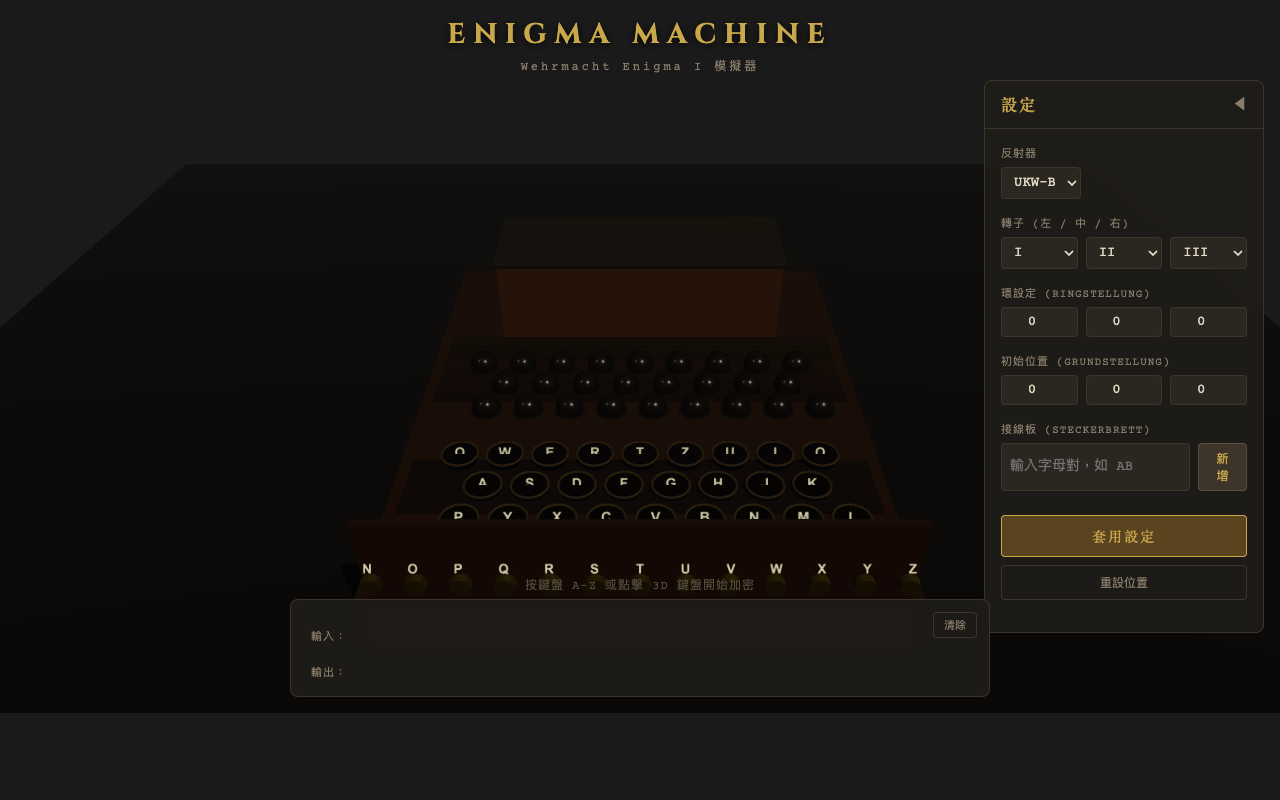
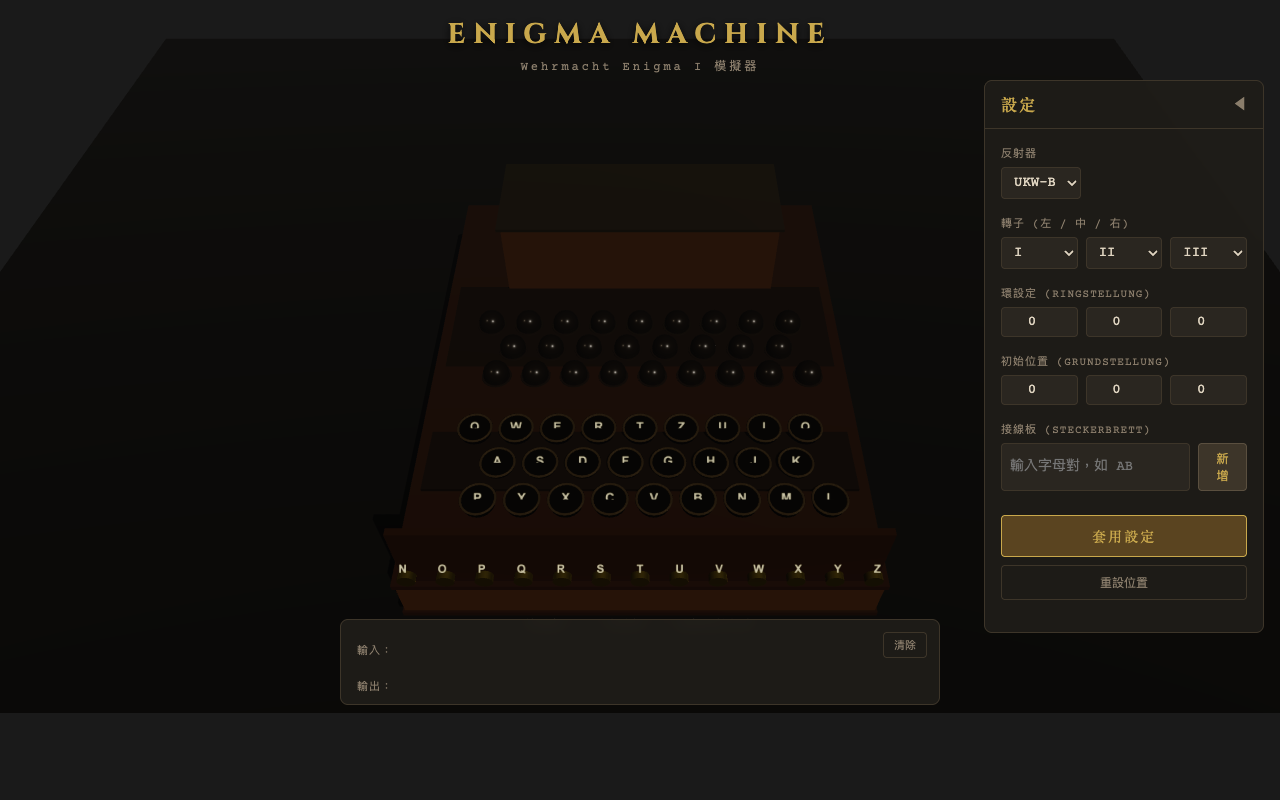
fix: 調整相機角度與 UI 面板大小，避免鍵盤被遮擋
將相機位置從 (0,12,16) 調整為 (0,16,14) 以更俯視角度
顯示鍵盤區域，同時縮小底部顯示面板尺寸與間距。

diff --git a/src/js/three/scene.js b/src/js/three/scene.js
@@ -23,8 +23,8 @@ export function createScene(container) {
     const width = window.innerWidth;
     const height = window.innerHeight;
     const camera = new THREE.PerspectiveCamera(45, width / height, 0.1, 100);
-    camera.position.set(0, 12, 16);
-    camera.lookAt(0, 1, 0);
+    camera.position.set(0, 16, 14);
+    camera.lookAt(0, 0, 0);
 
     // 渲染器
     const renderer = new THREE.WebGLRenderer({
@@ -82,11 +82,11 @@ export function createScene(container) {
 
     // 軌道控制器
     const controls = new OrbitControls(camera, renderer.domElement);
-    controls.target.set(0, 1, 0);
-    controls.maxPolarAngle = Math.PI / 2.1;
+    controls.target.set(0, 0, 0);
+    controls.maxPolarAngle = Math.PI / 2.5;
     controls.minPolarAngle = Math.PI / 8;
-    controls.minDistance = 8;
-    controls.maxDistance = 25;
+    controls.minDistance = 10;
+    controls.maxDistance = 30;
     controls.enablePan = false;
     controls.enableDamping = true;
     controls.dampingFactor = 0.05;

diff --git a/src/css/style.css b/src/css/style.css
@@ -253,14 +253,14 @@ body {
 /* ===== 輸入/輸出顯示 ===== */
 #display {
     position: absolute;
-    bottom: 16px;
+    bottom: 8px;
     left: 50%;
     transform: translateX(-50%);
-    width: min(90%, 700px);
+    width: min(90%, 600px);
     background: rgba(30, 28, 24, 0.92);
     border: 1px solid #3d3529;
     border-radius: 8px;
-    padding: 16px 20px;
+    padding: 10px 16px;
     z-index: 20;
     backdrop-filter: blur(8px);
 }
@@ -314,7 +314,7 @@ body {
 /* ===== 操作提示 ===== */
 #hint {
     position: absolute;
-    bottom: 120px;
+    bottom: 80px;
     left: 50%;
     transform: translateX(-50%);
     font-size: 12px;
